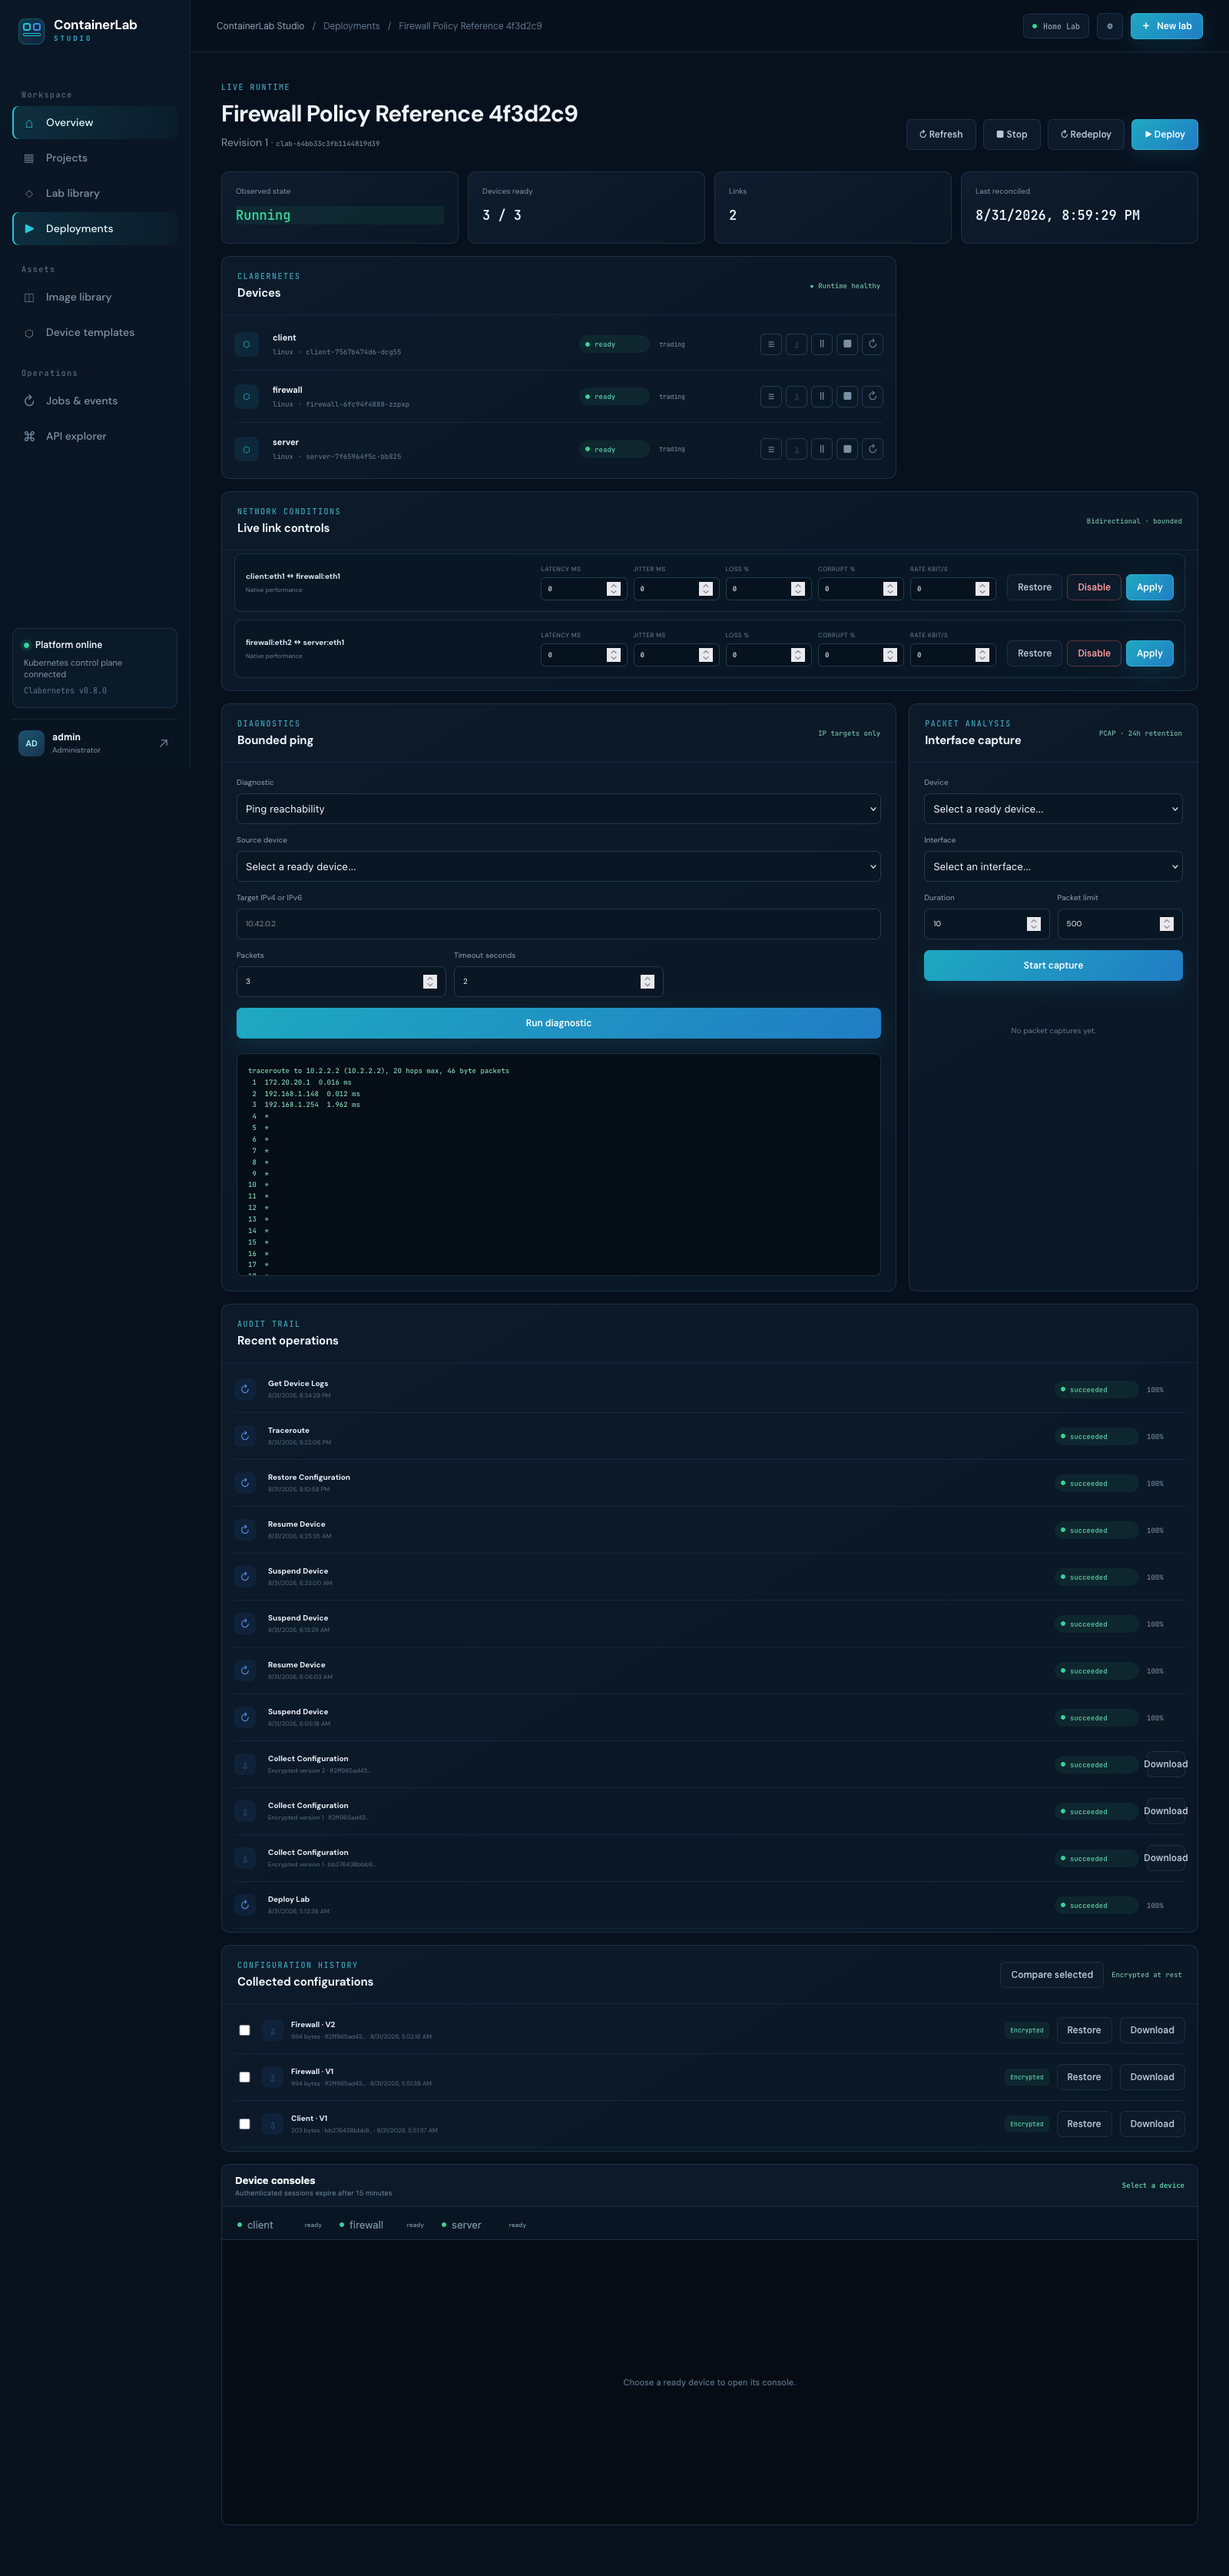
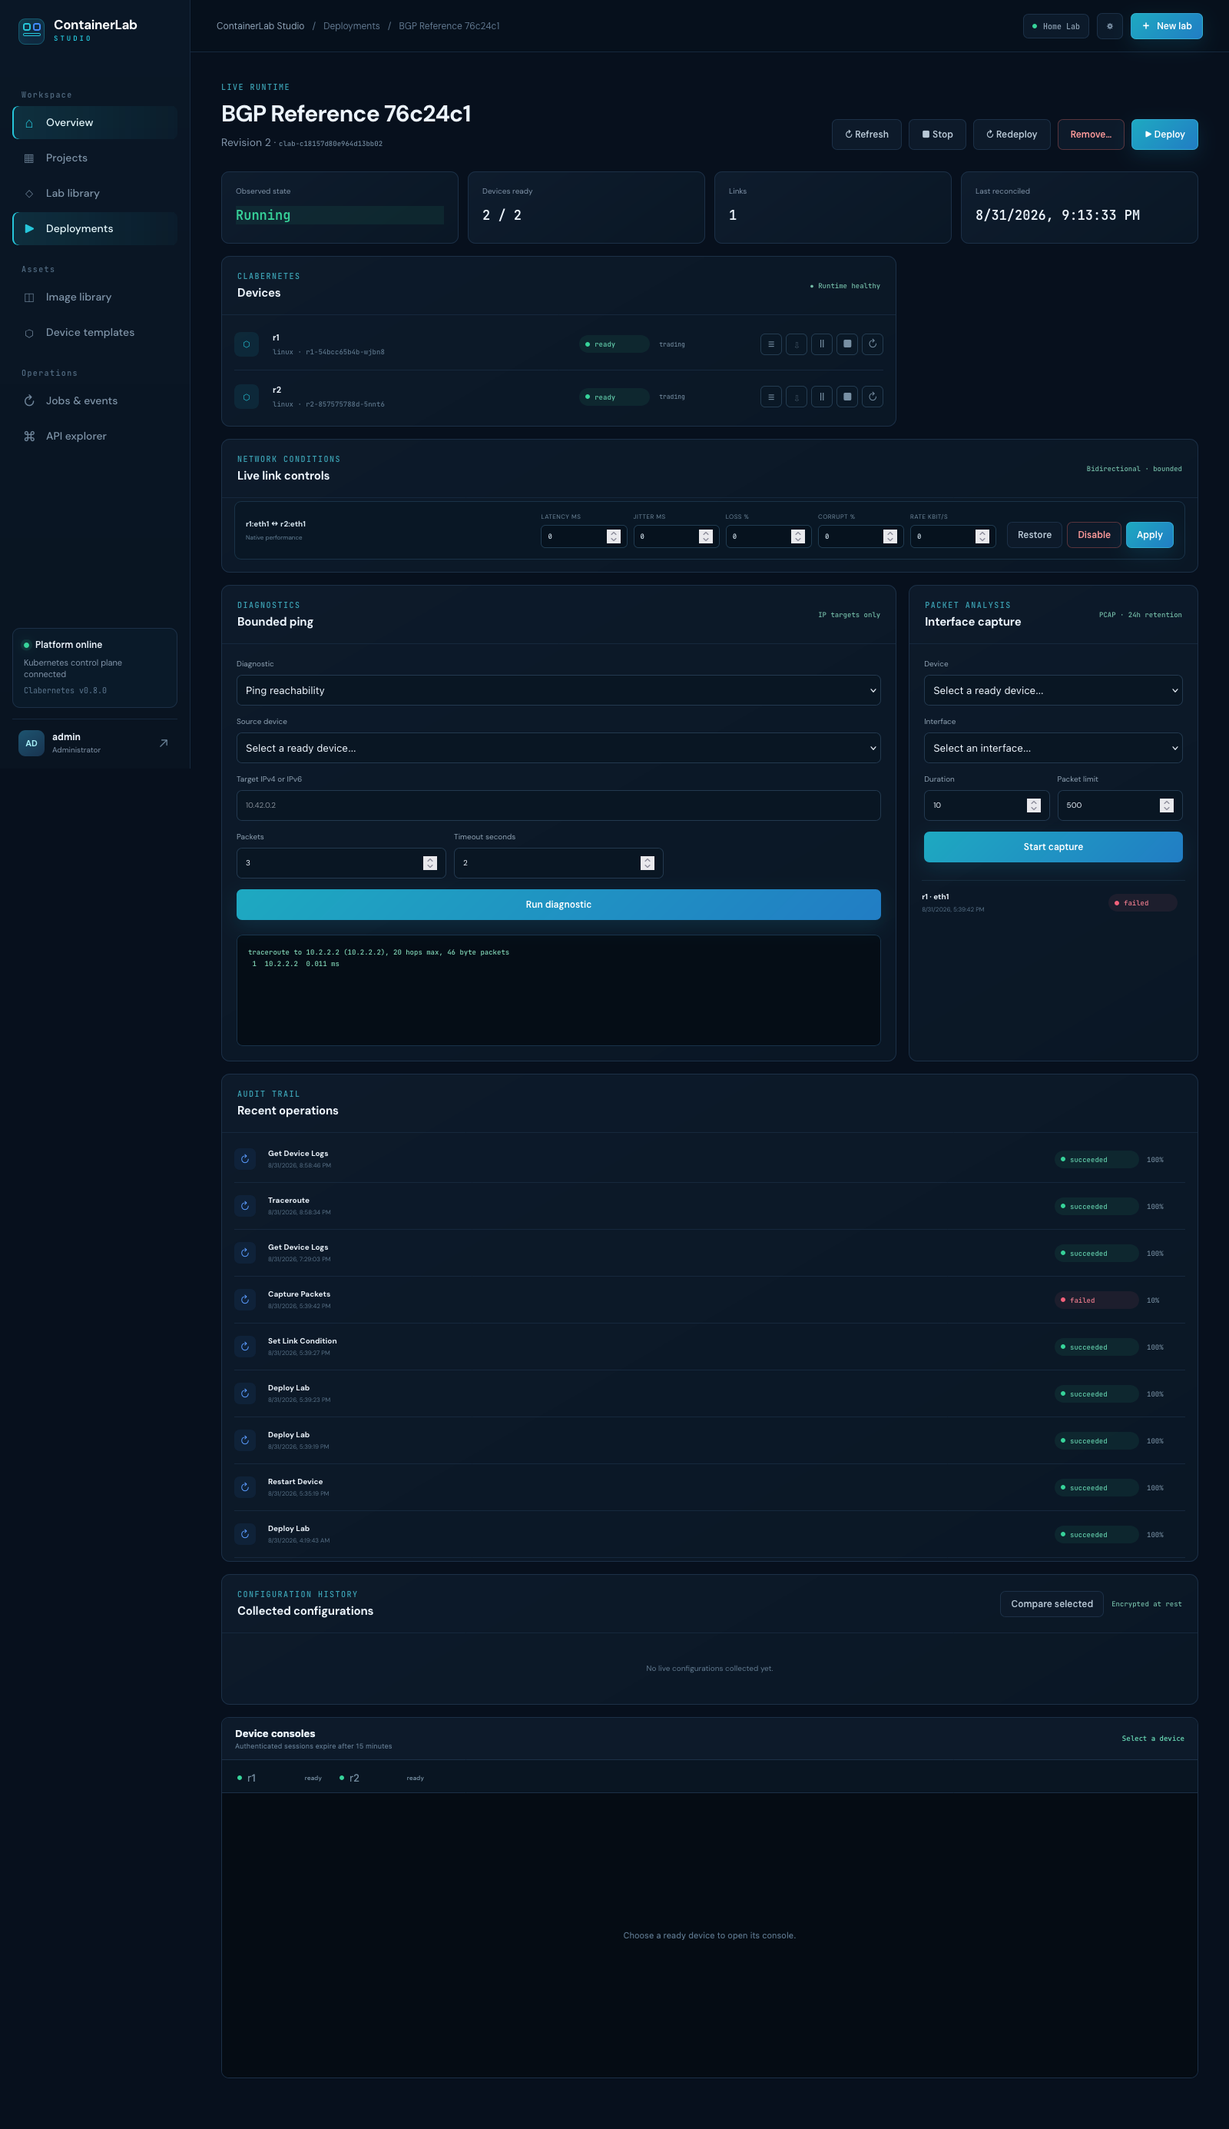
docs: add guarded runtime removal training

diff --git a/IMPLEMENTATION_STATUS.md b/IMPLEMENTATION_STATUS.md
@@ -36,7 +36,7 @@
 - Guarded image artifact deletion with server-counted publication/build/revision/job references, explicit impact preview, optimistic checksum confirmation, idempotent audited soft deletion, bounded owned-file removal, quota release, hidden deleted records, and checksum reuse.
 - Native lab metadata editing and guarded lab deletion with immutable project ownership, active-runtime/job refusal, optimistic concurrency, idempotent audited soft deletion, quota release, hidden deleted workspaces, preserved revision/deployment history, and safe name reuse.
 - Administrator-only project metadata management and guarded retirement with active lab/image/upload/runtime/job blockers, stale-preview protection, idempotent audit history, retired-project write rejection, complete selector/API hiding, preserved records, and safe owner/name reuse.
-- A 33-screen, read-only Firefox training capture catalog covering project and lab lifecycle, visual topology design, verified backup/restore, image onboarding/deletion, deployment/device lifecycle, safe redeploy preview, runtime logs, link controls, ping/traceroute diagnostics, packet capture, console, configuration history/compare/restore, templates, jobs, security, and API discovery.
+- A 34-screen, read-only Firefox training capture catalog covering project and lab lifecycle, visual topology design, verified backup/restore, image onboarding/deletion, deployment/device lifecycle and guarded removal, safe redeploy preview, runtime logs, link controls, ping/traceroute diagnostics, packet capture, console, configuration history/compare/restore, templates, jobs, security, and API discovery.
 
 ## Acceptance results
 
@@ -84,8 +84,9 @@
 | 40 | Guarded image deletion | PASS | A published firewall artifact was correctly protected by 1 publication, 1 build, and 2 lab revisions; a disposable 66-byte malformed upload showed zero references, was previewed in Firefox, removed its owned PVC file, released exactly 66 quota bytes, disappeared from the API/UI, returned the same idempotent replay result, and retained audit provenance. |
 | 41 | Guarded lab lifecycle | PASS | A running production lab was protected by its active deployment; a disposable lab was created and edited through the authenticated product API, previewed with zero blockers, soft-deleted under optimistic and idempotency controls, hidden from API and workspace with history retained, returned quota to its baseline, and allowed the same name to be reused. Firefox captured the native confirmation workflow. |
 | 42 | Guarded project lifecycle | PASS | The populated production project was protected by three active labs; an empty disposable project was created and edited, retired under optimistic/idempotent controls, hidden from API and portal, rejected as a destination for new labs, replayed with the same result, and recreated with the same owner/name. Firefox captured the native administrator confirmation workflow. |
+| 43 | Guarded runtime removal | PASS | A disposable two-device/one-link runtime was deployed to ready state, previewed in Firefox, and removed through the authenticated product workflow. Its owned namespace disappeared independently from Kubernetes, both device compute records were cleared, refresh/redeploy were rejected after the terminal transition, idempotent replay returned the original job, and immutable lab revision/history remained available. The displaced quota specimen was restored to running state. |
 
-Automated tests: **113 passed**. Django checks and migration drift checks: **pass**. React TypeScript/Vite production build: **pass**. Firefox training catalog: **33 live screens verified**. Helm lint/render: **pass**. Native runtime ping: **3 transmitted, 3 received, 0% loss, 0.445 ms average RTT**. Live appliance traceroute: **1 verified hop to 10.2.2.2**. Bidirectional 120 ms link condition: **240.563 ms average RTT**. Disabled link: **100% loss**. Restored qdiscs: **native `noqueue` on both endpoints**.
+Automated tests: **116 passed**. Django checks and migration drift checks: **pass**. React TypeScript/Vite production build: **pass**. Firefox training catalog: **34 live screens verified**. Helm lint/render: **pass**. Native runtime ping: **3 transmitted, 3 received, 0% loss, 0.445 ms average RTT**. Live appliance traceroute: **1 verified hop to 10.2.2.2**. Bidirectional 120 ms link condition: **240.563 ms average RTT**. Disabled link: **100% loss**. Restored qdiscs: **native `noqueue` on both endpoints**.
 
 ## Known limitations
 

diff --git a/training/README.md b/training/README.md
@@ -34,6 +34,16 @@ Screenshots are generated from the deployed product with `scripts/capture-traini
 | `22-jobs-events.png` | Jobs and audit events | Tracks asynchronous operation state, progress, failures, and audit history. |
 | `23-account-security.png` | Account and security | Updates profile/timezone or changes a password through the native product page. |
 | `24-api-explorer.png` | API explorer | Reviews the authenticated automation API that backs the same authorization and validation rules. |
+| `25-redeploy-preview.png` | Safe redeploy preview | Reviews compute replacement impact before explicitly recreating a stopped runtime. |
+| `26-device-runtime-logs.png` | Runtime logs | Reads bounded appliance or launcher logs without shell access. |
+| `27-backup-restore-preview.png` | Backup restore preview | Validates a native backup and reviews restore impact before confirmation. |
+| `28-configuration-compare.png` | Configuration comparison | Compares two encrypted immutable configuration versions. |
+| `29-configuration-restore-preview.png` | Configuration restore | Reviews the selected version before creating a new editable draft. |
+| `30-traceroute-diagnostic.png` | Traceroute diagnostic | Runs a bounded appliance traceroute from a selected device. |
+| `31-guarded-image-deletion.png` | Guarded image deletion | Reviews references and permits deletion only for an unused artifact. |
+| `32-guarded-lab-deletion.png` | Guarded lab deletion | Reviews runtime/history blockers before removing a lab-library entry. |
+| `33-guarded-project-retirement.png` | Guarded project retirement | Reviews workspace dependencies before retiring a project. |
+| `34-guarded-runtime-removal.png` | Guarded runtime removal | Reviews compute and session impact before deleting the owned runtime namespace. |
 
 ## No-YAML operating model
 

diff --git a/README.md b/README.md
@@ -38,4 +38,4 @@ The labeled operator screenshot catalog and its read-only capture procedure are 
 
 ## Important limitations
 
-Advanced acceptance remains in progress. Multi-node image distribution and several advanced CRUD surfaces remain incomplete. VM-backed devices are blocked on this node because `/dev/kvm` is absent. Native self-service account security, browser consoles, packet capture, node-local image publication and repair, topology lifecycle, Save As and revision restore, durable per-device suspend/resume, project role management, resource quotas, encrypted startup and collected configuration versioning, BGP routing, and default-deny nftables firewall policy are implemented and live-tested on the single-node deployment.
+Advanced acceptance remains in progress. Multi-node image distribution and several advanced CRUD surfaces remain incomplete. VM-backed devices are blocked on this node because `/dev/kvm` is absent. Native self-service account security, browser consoles, packet capture, node-local image publication and repair, guarded topology/runtime removal, Save As and revision restore, durable per-device suspend/resume, project role management, resource quotas, encrypted startup and collected configuration versioning, BGP routing, and default-deny nftables firewall policy are implemented and live-tested on the single-node deployment.

diff --git a/training/GALLERY.md b/training/GALLERY.md
@@ -199,3 +199,9 @@ The operator reviews revision and deployment history plus active runtime and job
 ![Guarded project retirement](33-guarded-project-retirement.png)
 
 An administrator reviews active labs, images, uploads, runtimes, and jobs before retiring a workspace. Retirement is available only when every active dependency is resolved; Studio then hides the project and its collaboration access, preserves all historical records, and permits the owner to reuse the project name.
+
+## 34 — Guarded runtime removal
+
+![Guarded runtime removal](34-guarded-runtime-removal.png)
+
+The operator reviews the runtime namespace, device, console, capture, artifact, and active-job impact before confirming permanent compute removal. Studio deletes only the deployment-owned Kubernetes namespace, revokes console access, clears live compute references, preserves the immutable lab revision and operation history, and prevents the removed runtime from being redeployed or refreshed.
